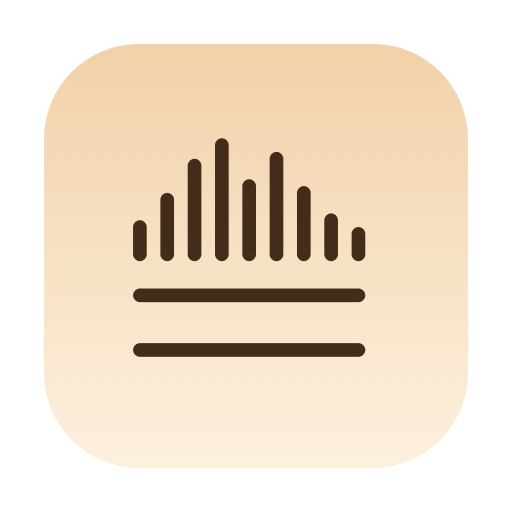
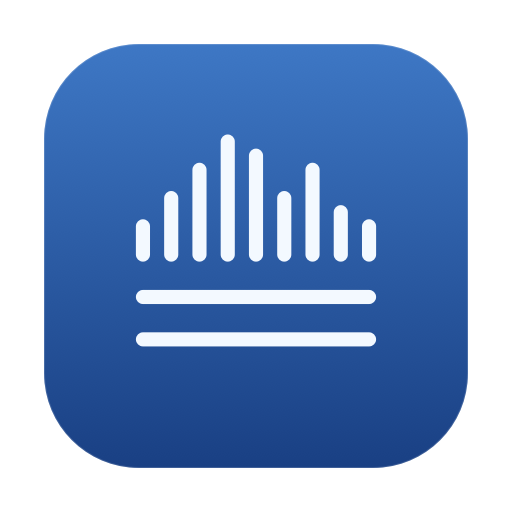
Show the refined mark wherever a picture of Bilby does
The onboarding screenshots, the README's icon and the social preview all
still showed the earlier mark. The screenshots have the new one pasted in
where the old one sat, drawn by BilbyMark itself at the same box, ink and
colour space. The README icon and social preview are rendered again from
the rebuilt app icon.

The design note now describes the mark as it is: whole-point bar heights,
the 2-point rhythm between sound and lines, and the blue tile, with the
candidate that lost and why.

diff --git a/docs/plans/2026-09-30-sound-and-captions-mark-design.md b/docs/plans/2026-09-30-sound-and-captions-mark-design.md
@@ -21,9 +21,9 @@ menu bar image, and scaled from there:
 
 | Part | Geometry (points, y down) |
 |---|---|
-| Sound | nine bars 1 wide, 1 apart, x 0–17; heights 3, 5, 7.5, 9, 6, 8, 5.5, 3.5, 2.5, all ending on y 10 |
+| Sound | nine bars 1 wide, 1 apart, x 0–17; heights 3, 5, 7, 9, 8, 5, 7, 4, 3, all ending on y 10 |
 | Source line | 17 × 1 at y 12–13 |
-| Translation line | 17 × 1 at y 16–17 — the same size as the source |
+| Translation line | 17 × 1 at y 15–16 — the same size as the source |
 
 Every stroke is a whole point wide and starts on a whole point, so on a 1x
 display every straight edge falls on a whole pixel. External monitors at 1x
@@ -45,6 +45,19 @@ bottom to the sound. Three thin versions were compared at menu bar size:
 Thin strokes make the mark lighter than its solid neighbours in the menu
 bar. That is the trade for the look, and it was made knowingly.
 
+**Refined by Codex.** A second pass, which Codex made and the owner chose,
+kept that design and tightened it:
+
+- Every bar height is a whole point. At 1x a fractional top is a
+  half-covered pixel, so four of the nine tops were blurred.
+- The gaps under the bars and between the lines are both 2 points, so the
+  sound and its two lines read as one symbol rather than three pieces.
+- The tile is blue with a pale mark. The cream-and-brown tile belonged to the
+  animal, and blue matches the setup window's accent.
+
+The other candidate had seven bars and shorter lines on an off-white tile.
+It was elegant at large sizes but the lightest mark in the menu bar.
+
 **Bars, not a smooth wave.** A continuous wave was drawn and compared at menu
 bar size. It reads as weather: beside the system's `water.waves`, `humidity`
 and `wind` it looks like one of them, where bars beside `waveform` and
@@ -58,7 +71,7 @@ told from 100%. The two lines are the same length and weight.
 
 **While captions run, the bottom line gives way to a dot.** The dot is 3
 points across at the bottom right. The translation line ends at 13 points to
-make room, leaving 2 points clear of it and of the line above, and nothing
+make room, 2 points short of the dot, which clears the line above by 1. Nothing
 else in the image moves. This is the one state in which the lines differ; a
 dot in a corner has to take its space from something. Two alternatives were
 rejected for the first version and still apply:
@@ -74,8 +87,11 @@ corner of the circle. A square glyph also needs more inset inside a circle
 than an animal's silhouette did. The slight rotation that made the bilby look
 as if it were sniffing would make horizontal lines look like tilting text.
 
-**The app icon keeps its tile, and the mark keeps its lift.** The bilby sat
-2% of the tile high because its mass was in its body. This mark's ink is low
+**On the app icon, the mark keeps its lift and is centred on its ink.** The
+tile is a blue gradient with a faint inset rim. The mark is 60% of the tile
+and shifted half a grid point to the right: its ink is 17 of the grid's 18
+points wide, and there is no pixel grid to keep here. The bilby sat 2% of the
+tile high because its mass was in its body. This mark's ink is low
 as well: its centre of mass sits at about 9.9 on the 18-point grid, against a
 box centre of 9, because the bars stand on a baseline just above the lines.
 Centred on its box, it sags. `Resources/Bilby.icns` is regenerated from
